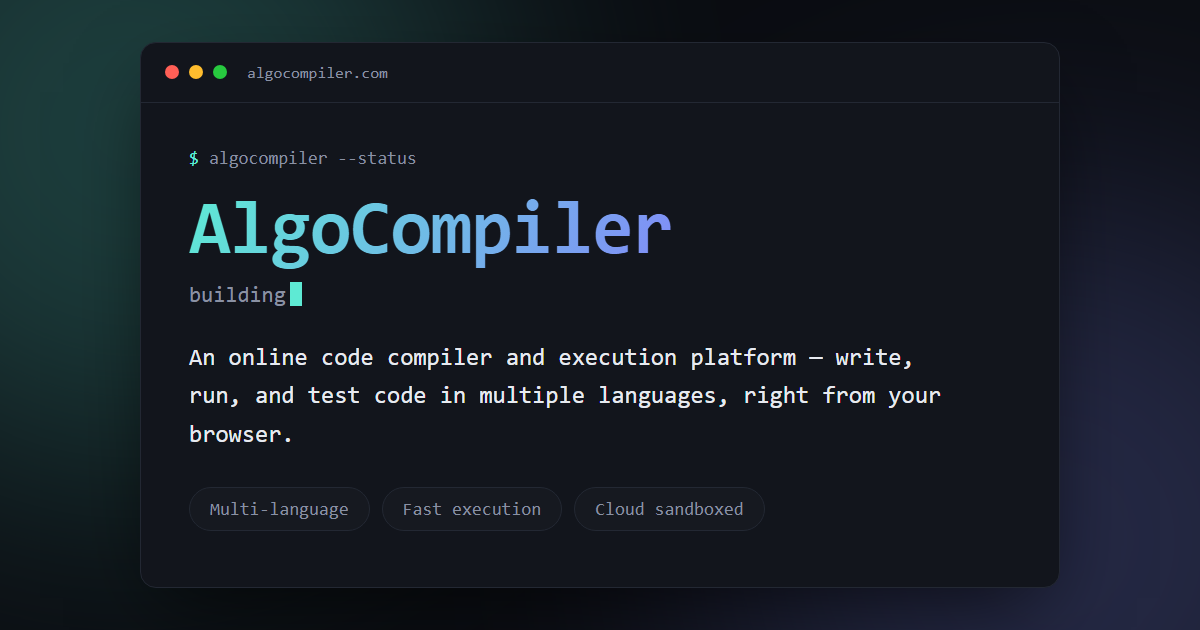
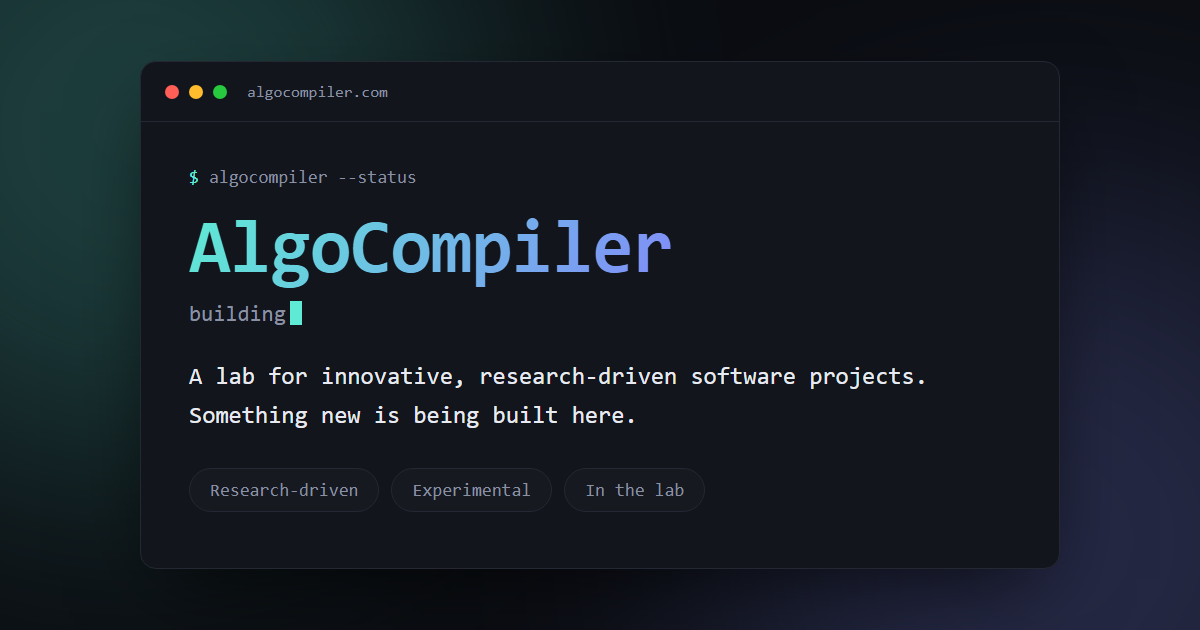
Reposition copy around research/innovation instead of a fixed product

diff --git a/index.html b/index.html
@@ -3,8 +3,8 @@
 <head>
 <meta charset="UTF-8">
 <meta name="viewport" content="width=device-width, initial-scale=1.0">
-<title>AlgoCompiler — Online Code Compiler | Coming Soon</title>
-<meta name="description" content="AlgoCompiler is an online code compiler and execution platform — write, run, and test code in multiple languages, right from your browser. Launching soon.">
+<title>AlgoCompiler — Coming Soon</title>
+<meta name="description" content="AlgoCompiler is a lab for innovative, research-driven software projects. Something new is being built — coming soon.">
 <meta name="robots" content="index, follow">
 <meta name="theme-color" content="#0b0d12">
 <link rel="canonical" href="https://algocompiler.com/">
@@ -12,16 +12,16 @@
 
 <meta property="og:type" content="website">
 <meta property="og:site_name" content="AlgoCompiler">
-<meta property="og:title" content="AlgoCompiler — Online Code Compiler | Coming Soon">
-<meta property="og:description" content="An online code compiler and execution platform — write, run, and test code in multiple languages, right from your browser. Launching soon.">
+<meta property="og:title" content="AlgoCompiler — Coming Soon">
+<meta property="og:description" content="A lab for innovative, research-driven software projects. Something new is being built — coming soon.">
 <meta property="og:url" content="https://algocompiler.com/">
 <meta property="og:image" content="https://algocompiler.com/og-image.png">
 <meta property="og:image:width" content="1200">
 <meta property="og:image:height" content="630">
 
 <meta name="twitter:card" content="summary_large_image">
-<meta name="twitter:title" content="AlgoCompiler — Online Code Compiler | Coming Soon">
-<meta name="twitter:description" content="An online code compiler and execution platform — write, run, and test code in multiple languages, right from your browser. Launching soon.">
+<meta name="twitter:title" content="AlgoCompiler — Coming Soon">
+<meta name="twitter:description" content="A lab for innovative, research-driven software projects. Something new is being built — coming soon.">
 <meta name="twitter:image" content="https://algocompiler.com/og-image.png">
 <style>
   :root {
@@ -213,13 +213,13 @@
         <h1 class="brand">AlgoCompiler</h1>
         <div class="status-line">building<span class="cursor"></span></div>
         <p class="tagline">
-          An online code compiler and execution platform — write, run, and
-          test code in multiple languages, right from your browser.
+          A lab for innovative, research-driven software projects.
+          Something new is being built here — details soon.
         </p>
         <div class="badges">
-          <span class="badge">Multi-language</span>
-          <span class="badge">Fast execution</span>
-          <span class="badge">Cloud sandboxed</span>
+          <span class="badge">Research-driven</span>
+          <span class="badge">Experimental</span>
+          <span class="badge">In the lab</span>
         </div>
       </div>
     </div>
